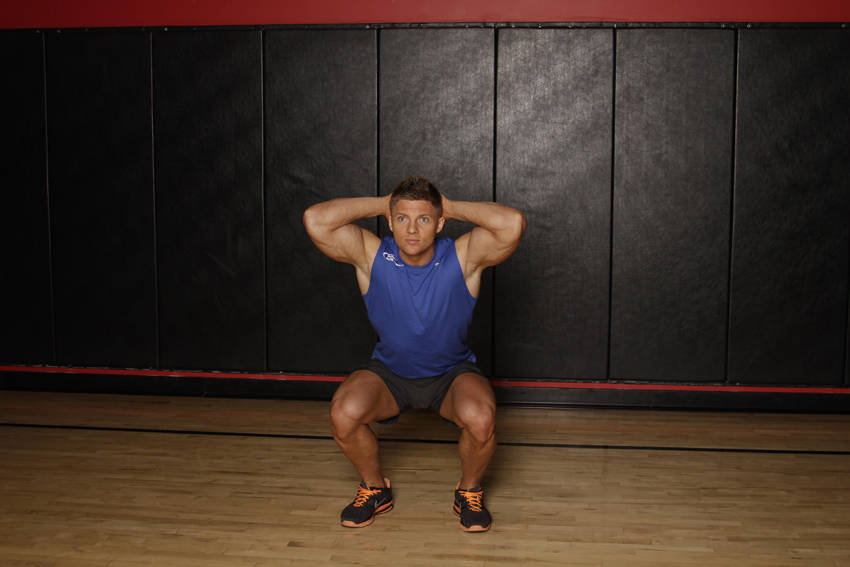
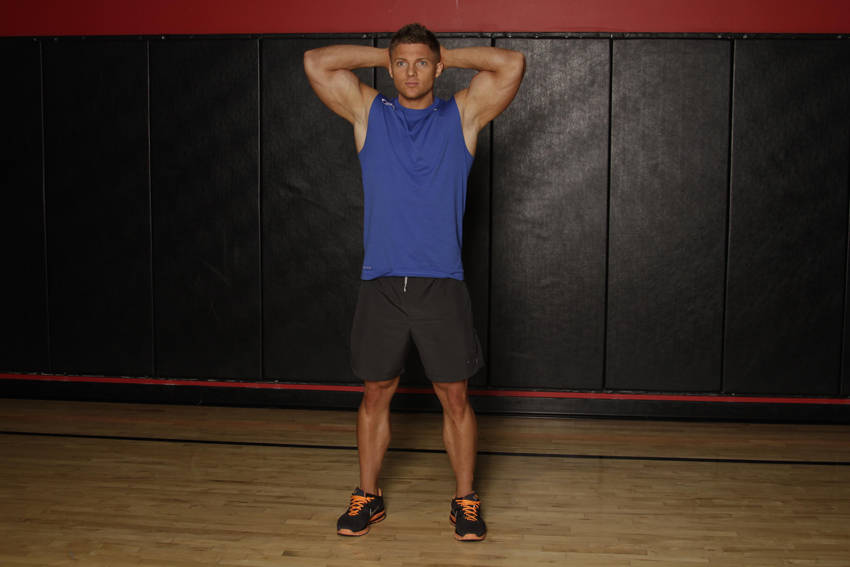
Fotos de início e fim em todos os exercícios; imagens exatas do wger (CC BY-SA) para o Davy; vídeo de como fazer para quem treina em casa

diff --git a/index.html b/index.html
@@ -810,6 +810,12 @@ body[data-tela="treino"] .toprow{justify-content:flex-end}
 .zoom{margin:0;display:flex;flex-direction:column;gap:6px}
 .zoom img{width:100%;border-radius:14px;background:#FFFFFF;display:block}
 .zoom figcaption{font-size:.78rem;color:var(--muted)}
+.zoom2{display:grid;grid-template-columns:1fr 1fr;gap:6px}
+.zoom2 span{display:flex;flex-direction:column;gap:4px;min-width:0}
+.zoom2 img{aspect-ratio:3/2;object-fit:contain;border-radius:12px}
+.zoom2 small{font-size:.72rem;font-weight:800;color:var(--soft);text-align:center}
+.zoom-cr{font-size:.68rem;opacity:.8}
+.video-action{display:inline-flex;margin:4px 0 6px;text-decoration:none}
 .setctl{display:flex;align-items:center;gap:8px;align-self:flex-start}
 .setctl .ghost{width:40px;height:36px;padding:0;font-size:1.2rem}
 .setctl .ghost:disabled{opacity:.35;cursor:default}
@@ -1244,7 +1250,7 @@ const CAT = {
  ]
 };
 // Foto (free-exercise-db, domínio público) e músculos trabalhados de cada exercício
-const MUS = {"Supino inclinado com halteres":{"id":"Incline_Dumbbell_Press","p":["chest"],"s":["shoulders","triceps"]},"Supino vertical reto (máquina)":{"id":"Leverage_Chest_Press","p":["chest"],"s":["shoulders","triceps"]},"Supino vertical inclinado (máquina)":{"id":"Leverage_Incline_Chest_Press","p":["chest"],"s":["shoulders","triceps"]},"Desenvolvimento com halteres, sentado":{"id":"Seated_Dumbbell_Press","p":["shoulders"],"s":["triceps"]},"Elevação lateral na polia, unilateral":{"id":"Cable_Seated_Lateral_Raise","p":["shoulders"],"s":["middle back","traps"]},"Voador (peck deck) ou crossover":{"id":"Butterfly","p":["chest"],"s":[]},"Voador (peck deck)":{"id":"Butterfly","p":["chest"],"s":[]},"Tríceps pulley (barra ou corda)":{"id":"Triceps_Pushdown","p":["triceps"],"s":[]},"Tríceps francês na polia (corda)":{"id":"Cable_Rope_Overhead_Triceps_Extension","p":["triceps"],"s":[]},"Agachamento livre":{"id":"Barbell_Full_Squat","p":["quadriceps"],"s":["calves","glutes","hamstrings","lower back"]},"Leg press 45°":{"id":"Leg_Press","p":["quadriceps"],"s":["calves","glutes","hamstrings"]},"Cadeira extensora":{"id":"Leg_Extensions","p":["quadriceps"],"s":[]},"Mesa flexora":{"id":"Lying_Leg_Curls","p":["hamstrings"],"s":[]},"Cadeira flexora (sentado)":{"id":"Seated_Leg_Curl","p":["hamstrings"],"s":[]},"Panturrilha em pé (máquina)":{"id":"Standing_Calf_Raises","p":["calves"],"s":[]},"Abdominal na polia":{"id":"Cable_Crunch","p":["abdominals"],"s":[]},"Graviton (barra fixa quando fizer 3×8 sem ajuda)":{"id":"Band_Assisted_Pull-Up","p":["lats"],"s":["abdominals","forearms","middle back"]},"Remada baixa, pegada neutra (triângulo)":{"id":"Seated_Cable_Rows","p":["middle back"],"s":["biceps","lats","shoulders"]},"Pulldown articulado unilateral":{"id":"One_Arm_Lat_Pulldown","p":["lats"],"s":["biceps","middle back"]},"Puxada alta (pulley)":{"id":"Wide-Grip_Lat_Pulldown","p":["lats"],"s":["biceps","middle back","shoulders"]},"Elevação lateral com halteres":{"id":"Side_Lateral_Raise","p":["shoulders"],"s":[]},"Voador invertido ou face pull":{"id":"Reverse_Machine_Flyes","p":["shoulders"],"s":[]},"Voador invertido na máquina":{"id":"Reverse_Machine_Flyes","p":["shoulders"],"s":[]},"Face pull na polia (corda)":{"id":"Face_Pull","p":["shoulders"],"s":["middle back"]},"Rosca inclinada com halteres":{"id":"Incline_Dumbbell_Curl","p":["biceps"],"s":[]},"Rosca scott (máquina)":{"id":"Machine_Preacher_Curls","p":["biceps"],"s":[]},"Stiff com barra":{"id":"Stiff-Legged_Barbell_Deadlift","p":["hamstrings"],"s":["glutes","lower back"]},"Elevação pélvica":{"id":"Barbell_Hip_Thrust","p":["glutes"],"s":["calves","hamstrings"]},"Agachamento búlgaro":{"id":"Split_Squat_with_Dumbbells","p":["quadriceps"],"s":["glutes","hamstrings"]},"Panturrilha sentado (sóleo)":{"id":"Seated_Calf_Raise","p":["calves"],"s":[]},"Elevação de pernas ou prancha":{"id":"Flat_Bench_Lying_Leg_Raise","p":["abdominals"],"s":[]},"Remada máquina com apoio no peito":{"id":"Leverage_Iso_Row","p":["lats"],"s":["biceps","middle back"]},"Crossover de baixo para cima":{"id":"Low_Cable_Crossover","p":["chest"],"s":["shoulders"]},"Rosca direta com barra W":{"id":"EZ-Bar_Curl","p":["biceps"],"s":[]},"Caminhada inclinada na esteira (opcional)":{"id":"Walking_Treadmill","p":["quadriceps"],"s":["calves","glutes","hamstrings"]},"Rosca martelo sentado":{"id":"Hammer_Curls","p":["biceps"],"s":[]},"Cadeira abdutora":{"id":"Thigh_Abductor","p":["abductors"],"s":["glutes"]},"Crucifixo inverso com halteres, peito apoiado no banco inclinado":{"id":"Bent_Over_Dumbbell_Rear_Delt_Raise_With_Head_On_Bench","p":["shoulders"],"s":[]},"Agachamento no hack (máquina)":{"id":"Hack_Squat","p":["quadriceps"],"s":["glutes","hamstrings"]},"Agachamento no Smith":{"id":"Smith_Machine_Squat","p":["quadriceps"],"s":["glutes","hamstrings","calves"]},"Agachamento até o sofá":{"id":"Bodyweight_Squat","p":["quadriceps"],"s":["glutes","hamstrings"]},"Flexão com mãos no sofá":{"id":"Incline_Push-Up","p":["chest"],"s":["shoulders","triceps"]},"Remada com mochila, uma mão no sofá":{"id":"One-Arm_Dumbbell_Row","p":["middle back"],"s":["biceps","lats","shoulders"]},"Ponte de glúteo no chão":{"id":"Butt_Lift_Bridge","p":["glutes"],"s":["hamstrings"]},"Dead bug":{"id":"Dead_Bug","p":["abdominals"],"s":[]},"Desenvolvimento com mochila, em pé":{"id":"Standing_Dumbbell_Press","p":["shoulders"],"s":["triceps"]},"Stiff com mochila":{"id":"Stiff-Legged_Dumbbell_Deadlift","p":["hamstrings"],"s":["glutes","lower back"]},"Elevação em W deitado de bruços":{"id":"Lying_Rear_Delt_Raise","p":["shoulders"],"s":["middle back"]},"Panturrilha em pé, mão no sofá":{"id":"Standing_Dumbbell_Calf_Raise","p":["calves"],"s":[]},"Prancha com toque no ombro, mãos no sofá":{"id":"Plank","p":["abdominals"],"s":["shoulders"]},"Caminhada":{"id":"Walking_Treadmill","p":["quadriceps"],"s":["calves","glutes","hamstrings"]},"Equilíbrio numa perna, perto do sofá":{"id":"Leg_Lift","p":["glutes"],"s":["calves","abdominals"]},"Meio agachamento numa perna, mão no sofá":{"id":"Leg_Lift","p":["quadriceps"],"s":["glutes"]},"Perdigueiro (bird dog)":{"id":"Glute_Kickback","p":["lower back"],"s":["glutes","abdominals"]}};
+const MUS = {"Supino inclinado com halteres":{"id":"Incline_Dumbbell_Press","p":["chest"],"s":["shoulders","triceps"],"f":2},"Supino vertical reto (máquina)":{"id":"Leverage_Chest_Press","p":["chest"],"s":["shoulders","triceps"],"f":2},"Supino vertical inclinado (máquina)":{"id":"Leverage_Incline_Chest_Press","p":["chest"],"s":["shoulders","triceps"],"f":2},"Desenvolvimento com halteres, sentado":{"id":"Seated_Dumbbell_Press","p":["shoulders"],"s":["triceps"],"f":2},"Elevação lateral na polia, unilateral":{"id":"Cable_Seated_Lateral_Raise","p":["shoulders"],"s":["middle back","traps"],"f":2},"Voador (peck deck) ou crossover":{"id":"Butterfly","p":["chest"],"s":[],"f":2},"Voador (peck deck)":{"id":"Butterfly","p":["chest"],"s":[],"f":2},"Tríceps pulley (barra ou corda)":{"id":"Triceps_Pushdown","p":["triceps"],"s":[],"f":2},"Tríceps francês na polia (corda)":{"id":"Cable_Rope_Overhead_Triceps_Extension","p":["triceps"],"s":[],"f":2},"Agachamento livre":{"id":"Barbell_Full_Squat","p":["quadriceps"],"s":["calves","glutes","hamstrings","lower back"],"f":2},"Leg press 45°":{"id":"Leg_Press","p":["quadriceps"],"s":["calves","glutes","hamstrings"],"f":2},"Cadeira extensora":{"id":"Leg_Extensions","p":["quadriceps"],"s":[],"f":2},"Mesa flexora":{"id":"Lying_Leg_Curls","p":["hamstrings"],"s":[],"f":2},"Cadeira flexora (sentado)":{"id":"Seated_Leg_Curl","p":["hamstrings"],"s":[],"f":2},"Panturrilha em pé (máquina)":{"id":"Standing_Calf_Raises","p":["calves"],"s":[],"f":2},"Abdominal na polia":{"id":"Cable_Crunch","p":["abdominals"],"s":[],"f":2},"Graviton (barra fixa quando fizer 3×8 sem ajuda)":{"id":"Band_Assisted_Pull-Up","p":["lats"],"s":["abdominals","forearms","middle back"],"f":2},"Remada baixa, pegada neutra (triângulo)":{"id":"Seated_Cable_Rows","p":["middle back"],"s":["biceps","lats","shoulders"],"f":2},"Pulldown articulado unilateral":{"id":"One_Arm_Lat_Pulldown","p":["lats"],"s":["biceps","middle back"],"f":2},"Puxada alta (pulley)":{"id":"Wide-Grip_Lat_Pulldown","p":["lats"],"s":["biceps","middle back","shoulders"],"f":2},"Elevação lateral com halteres":{"id":"Side_Lateral_Raise","p":["shoulders"],"s":[],"f":2},"Voador invertido ou face pull":{"id":"Reverse_Machine_Flyes","p":["shoulders"],"s":[],"f":2},"Voador invertido na máquina":{"id":"Reverse_Machine_Flyes","p":["shoulders"],"s":[],"f":2},"Face pull na polia (corda)":{"id":"Face_Pull","p":["shoulders"],"s":["middle back"],"f":2},"Rosca inclinada com halteres":{"id":"Incline_Dumbbell_Curl","p":["biceps"],"s":[],"f":2},"Rosca scott (máquina)":{"id":"Machine_Preacher_Curls","p":["biceps"],"s":[],"f":2},"Stiff com barra":{"id":"Stiff-Legged_Barbell_Deadlift","p":["hamstrings"],"s":["glutes","lower back"],"f":2},"Elevação pélvica":{"id":"Barbell_Hip_Thrust","p":["glutes"],"s":["calves","hamstrings"],"f":2},"Agachamento búlgaro":{"id":"Split_Squat_with_Dumbbells","p":["quadriceps"],"s":["glutes","hamstrings"],"f":2},"Panturrilha sentado (sóleo)":{"id":"Seated_Calf_Raise","p":["calves"],"s":[],"f":2},"Elevação de pernas ou prancha":{"id":"Flat_Bench_Lying_Leg_Raise","p":["abdominals"],"s":[],"f":2},"Remada máquina com apoio no peito":{"id":"Leverage_Iso_Row","p":["lats"],"s":["biceps","middle back"],"f":2},"Crossover de baixo para cima":{"id":"Low_Cable_Crossover","p":["chest"],"s":["shoulders"],"f":2},"Rosca direta com barra W":{"id":"EZ-Bar_Curl","p":["biceps"],"s":[],"f":2},"Caminhada inclinada na esteira (opcional)":{"id":"Walking_Treadmill","p":["quadriceps"],"s":["calves","glutes","hamstrings"],"f":2},"Rosca martelo sentado":{"id":"Hammer_Curls","p":["biceps"],"s":[],"f":2},"Cadeira abdutora":{"id":"Thigh_Abductor","p":["abductors"],"s":["glutes"],"f":2},"Crucifixo inverso com halteres, peito apoiado no banco inclinado":{"id":"Bent_Over_Dumbbell_Rear_Delt_Raise_With_Head_On_Bench","p":["shoulders"],"s":[],"f":2},"Agachamento no hack (máquina)":{"id":"Hack_Squat","p":["quadriceps"],"s":["glutes","hamstrings"],"f":2},"Agachamento no Smith":{"id":"Smith_Machine_Squat","p":["quadriceps"],"s":["glutes","hamstrings","calves"],"f":2},"Agachamento até o sofá":{"id":"Bodyweight_Squat","p":["quadriceps"],"s":["glutes","hamstrings"],"f":2},"Flexão com mãos no sofá":{"id":"Incline_Push-Up","p":["chest"],"s":["shoulders","triceps"],"f":2},"Remada com mochila, uma mão no sofá":{"id":"One-Arm_Dumbbell_Row","p":["middle back"],"s":["biceps","lats","shoulders"],"f":2},"Ponte de glúteo no chão":{"id":"Butt_Lift_Bridge","p":["glutes"],"s":["hamstrings"],"f":2},"Dead bug":{"id":"Dead_Bug","p":["abdominals"],"s":[],"f":2},"Desenvolvimento com mochila, em pé":{"id":"Standing_Dumbbell_Press","p":["shoulders"],"s":["triceps"],"f":2},"Stiff com mochila":{"id":"Stiff-Legged_Dumbbell_Deadlift","p":["hamstrings"],"s":["glutes","lower back"],"f":2},"Elevação em W deitado de bruços":{"id":"Lying_Rear_Delt_Raise","p":["shoulders"],"s":["middle back"],"f":2,"nofoto":true},"Panturrilha em pé, mão no sofá":{"id":"Wger_Calf_Raise","p":["calves"],"s":[],"cr":"wger.de · erikocobra · CC BY-SA 4.0"},"Prancha com toque no ombro, mãos no sofá":{"id":"Wger_Plank_Shoulder_Taps","p":["abdominals"],"s":["shoulders"],"cr":"wger.de · clafal · CC BY-SA 4.0"},"Caminhada":{"id":"Walking_Treadmill","p":["quadriceps"],"s":["calves","glutes","hamstrings"],"f":2},"Equilíbrio numa perna, perto do sofá":{"id":"Leg_Lift","p":["glutes"],"s":["calves","abdominals"],"f":2},"Meio agachamento numa perna, mão no sofá":{"id":"Leg_Lift","p":["quadriceps"],"s":["glutes"],"f":2},"Perdigueiro (bird dog)":{"id":"Wger_Bird_Dog","p":["lower back"],"s":["glutes","abdominals"],"cr":"wger.de · Settebello · CC BY-SA 4.0"}};
 const PLATES = {d1:"--p25", d2:"--p20", d3:"--p15", d4:"--p10", d5:"--p5"};
 const fmtCue = c => /^CLAV[ÍI]CULA:\s*/i.test(c) ? `<span class="alerta">Clavícula</span>${c.replace(/^CLAV[ÍI]CULA:\s*/i, "")}` : c;
 const fromPlan = plan => plan.days.map(d => ({id:d.id, wd:d.wd, name:d.name, sub:d.sub, plate:PLATES[d.id],
@@ -1319,9 +1325,9 @@ function renderDayCore(d){
     const boxes = log ? setRows(d, i, name, sets, marks, reps) : `<div class="sets">${Array.from({length:sets},(_,s)=>
       `<button type="button" class="set" data-ex="${i}" data-s="${s}" aria-pressed="${!!marks[i+"-"+s]}" aria-label="Série ${s+1} de ${name}">${s+1}</button>`).join("")}</div>`;
     const allDone = Array.from({length:sets}).every((_,s)=>marks[i+"-"+s]);
-    const mu = MUS[name], foto = IMG && mu ? `<button type="button" class="thumb" data-zoom="${i}" aria-label="Ver a foto de ${esc(name)}"><img src="${IMG}${mu.id}.jpg" alt="" loading="lazy"><b>${i + 1}</b></button>` : "";
+    const mu = MUS[name], foto = IMG && mu && !mu.nofoto ? `<button type="button" class="thumb" data-zoom="${i}" aria-label="Ver a foto de ${esc(name)}"><img src="${IMG}${mu.id}.jpg" alt="" loading="lazy"><b>${i + 1}</b></button>` : "";
     return `<article class="ex${allDone?" done":""}" id="ex-${d.id}-${i}">
-      ${foto ? `<figure class="zoom" hidden><img src="${IMG}${mu.id}.jpg" alt="Execução: ${esc(name)}" loading="lazy"><figcaption>${mu.p.map(x => MUSCLE_PT[x] || x).join(", ")}${mu.s.length ? " · ajuda: " + mu.s.map(x => MUSCLE_PT[x] || x).join(", ") : ""}</figcaption></figure>` : ""}
+      ${foto ? `<figure class="zoom" hidden>${mu.f === 2 ? `<div class="zoom2"><span><img src="${IMG}${mu.id}.jpg" alt="Execução de ${esc(name)}: início" loading="lazy"><small>1 · início</small></span><span><img src="${IMG}${mu.id}-1.jpg" alt="Execução de ${esc(name)}: fim" loading="lazy"><small>2 · fim</small></span></div>` : `<img src="${IMG}${mu.id}.jpg" alt="Execução: ${esc(name)}" loading="lazy">`}<figcaption>${mu.p.map(x => MUSCLE_PT[x] || x).join(", ")}${mu.s.length ? " · ajuda: " + mu.s.map(x => MUSCLE_PT[x] || x).join(", ") : ""}${mu.cr ? `<br><span class="zoom-cr">Imagem: ${esc(mu.cr)}</span>` : ""}</figcaption></figure>` : ""}
       <div class="ex-top${foto ? " has-thumb" : ""}">
         ${foto}${foto ? "" : `<span class="ex-n">${String(i+1).padStart(2,"0")}</span>`}
         <h3 class="ex-name">${name}</h3>
@@ -1335,7 +1341,7 @@ function renderDayCore(d){
       ${log ? `<div class="meta" hidden></div>` : ""}
       ${boxes}
       ${log && SUPA && !treinoPlus() ? `<div class="ex-acts"><button type="button" class="ghost" data-ditar="${i}" aria-pressed="false">${ICON_MIC}Ditar série</button><button type="button" class="ghost" data-filmar="${i}">${ICON_CAM}Filmar execução</button></div>` : ""}
-      <details><summary>Execução</summary><ul>${cues.map(c=>`<li>${c}</li>`).join("")}</ul>${log && SUPA && treinoPlus() ? `<button type="button" class="link-action film-action" data-filmar="${i}">${ICON_CAM}Filmar execução</button>` : ""}</details>
+      <details><summary>Execução</summary>${person.casa ? `<a class="link-action video-action" href="https://www.youtube.com/results?search_query=${encodeURIComponent(name.split(",")[0].replace(/(.*?)/g, "").trim() + " como fazer")}" target="_blank" rel="noopener">▶ Ver vídeo de como fazer</a>` : ""}<ul>${cues.map(c=>`<li>${c}</li>`).join("")}</ul>${log && SUPA && treinoPlus() ? `<button type="button" class="link-action film-action" data-filmar="${i}">${ICON_CAM}Filmar execução</button>` : ""}</details>
     </article>`;
   }).join("");
   const total = d.ex.reduce((a,e)=>a+(e[4] ? e[1] : 0),0);
